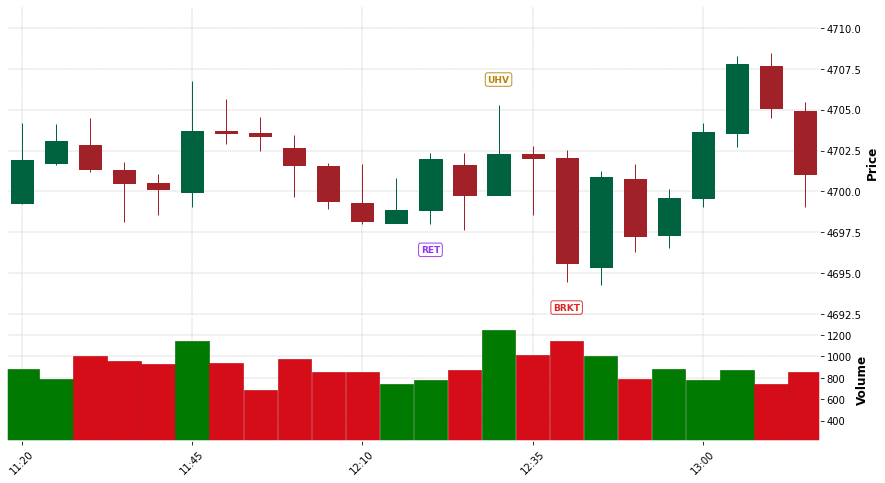
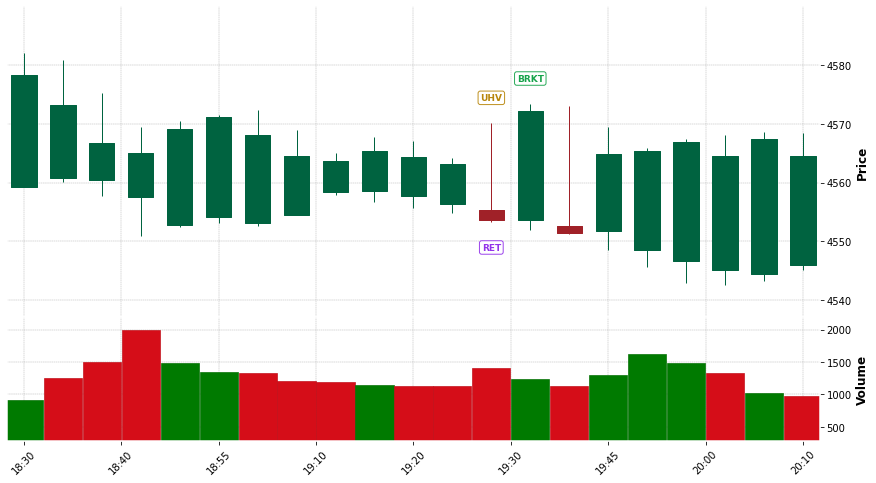
Regenerate dashboards: 81% WR config (min-break 0.5, UHV SL). M1 rejected (25% WR, loses)

diff --git a/monitor/setup_labels/signals.html b/monitor/setup_labels/signals.html
@@ -12,8 +12,8 @@ tr:hover{background:#111826}
 .summary{padding:12px 18px;color:#e6edf3;font-size:15px}
 </style></head><body>
 <header><h1>🎯 Pattern Matcher — Signals (validated rule stencils)</h1>
-<div class="sub">Generated 2026-07-26 02:35 · Feb-11 exit · demo/simulation</div></header>
-<div class="summary"><b>137</b> setups over last 33 days &nbsp;·&nbsp; <b class='take'>25 TAKE</b> / 112 SKIP &nbsp;·&nbsp; TAKE net <b class='pos'>$+807.5</b> @0.1 lot &nbsp;·&nbsp; WR 72%</div>
+<div class="sub">Generated 2026-07-26 03:06 · Feb-11 exit · demo/simulation</div></header>
+<div class="summary"><b>133</b> setups over last 33 days &nbsp;·&nbsp; <b class='take'>20 TAKE</b> / 113 SKIP &nbsp;·&nbsp; TAKE net <b class='pos'>$+856.2</b> @0.1 lot &nbsp;·&nbsp; WR 80%</div>
 <table><thead><tr><th>Time</th><th>Side</th><th>Rule</th><th>Decision</th><th>Pattern</th><th>Outcome @0.1 lot</th></tr></thead>
 <tbody><tr><td>2026-06-19 15:25</td><td class="sell">SELL</td><td>Rule 5</td><td class="skip">SKIP</td><td>Strong downtrend · weak-breakout</td><td></td></tr>
 <tr><td>2026-06-19 07:40</td><td class="sell">SELL</td><td>Rule 2</td><td class="take">TAKE</td><td>Strong downtrend · momentum-breakout</td><td><span class="pos">$+79.8</span></td></tr>
@@ -24,6 +24,7 @@ tr:hover{background:#111826}
 <tr><td>2026-06-18 23:55</td><td class="sell">SELL</td><td>Rule 4</td><td class="skip">SKIP</td><td>Downtrend · wick-breakout</td><td></td></tr>
 <tr><td>2026-06-18 21:30</td><td class="sell">SELL</td><td>Rule 5</td><td class="skip">SKIP</td><td>Strong downtrend · momentum-breakout</td><td></td></tr>
 <tr><td>2026-06-18 15:25</td><td class="sell">SELL</td><td>Rule 5</td><td class="skip">SKIP</td><td>Strong downtrend · momentum-breakout</td><td></td></tr>
+<tr><td>2026-06-18 13:55</td><td class="sell">SELL</td><td>Rule 5</td><td class="skip">SKIP</td><td>Strong downtrend · momentum-breakout</td><td></td></tr>
 <tr><td>2026-06-18 11:25</td><td class="sell">SELL</td><td>Rule 5</td><td class="skip">SKIP</td><td>Downtrend · weak-breakout</td><td></td></tr>
 <tr><td>2026-06-18 10:30</td><td class="sell">SELL</td><td>Rule 5</td><td class="skip">SKIP</td><td>Downtrend · momentum-breakout</td><td></td></tr>
 <tr><td>2026-06-18 04:40</td><td class="buy">BUY</td><td>Rule 5</td><td class="skip">SKIP</td><td>Strong uptrend · weak-breakout</td><td></td></tr>
@@ -31,12 +32,13 @@ tr:hover{background:#111826}
 <tr><td>2026-06-17 22:05</td><td class="sell">SELL</td><td>Rule 5</td><td class="skip">SKIP</td><td>Downtrend · weak-breakout</td><td></td></tr>
 <tr><td>2026-06-17 18:20</td><td class="buy">BUY</td><td>Rule 5</td><td class="skip">SKIP</td><td>Strong uptrend · momentum-breakout</td><td></td></tr>
 <tr><td>2026-06-17 08:55</td><td class="sell">SELL</td><td>Rule 2</td><td class="take">TAKE</td><td>Downtrend · momentum-breakout</td><td><span class="pos">$+9.1</span></td></tr>
+<tr><td>2026-06-16 14:55</td><td class="buy">BUY</td><td>—</td><td class="skip">SKIP</td><td>Uptrend · weak-breakout</td><td></td></tr>
 <tr><td>2026-06-16 12:50</td><td class="buy">BUY</td><td>Rule 5</td><td class="skip">SKIP</td><td>Strong uptrend · momentum-breakout</td><td></td></tr>
 <tr><td>2026-06-15 23:10</td><td class="sell">SELL</td><td>Rule 2</td><td class="take">TAKE</td><td>Strong downtrend · momentum-breakout</td><td><span class="pos">$+64.7</span></td></tr>
 <tr><td>2026-06-15 22:35</td><td class="sell">SELL</td><td>Rule 4</td><td class="skip">SKIP</td><td>Strong downtrend · wick-breakout</td><td></td></tr>
 <tr><td>2026-06-15 22:25</td><td class="sell">SELL</td><td>Rule 5</td><td class="skip">SKIP</td><td>Strong downtrend · momentum-breakout</td><td></td></tr>
 <tr><td>2026-06-15 22:00</td><td class="sell">SELL</td><td>Rule 5</td><td class="skip">SKIP</td><td>Strong downtrend · momentum-breakout</td><td></td></tr>
-<tr><td>2026-06-15 14:15</td><td class="buy">BUY</td><td>Rule 5</td><td class="skip">SKIP</td><td>Strong uptrend · momentum-breakout</td><td></td></tr>
+<tr><td>2026-06-15 14:25</td><td class="buy">BUY</td><td>Rule 5</td><td class="skip">SKIP</td><td>Strong uptrend · momentum-breakout</td><td></td></tr>
 <tr><td>2026-06-15 07:30</td><td class="buy">BUY</td><td>Rule 5</td><td class="skip">SKIP</td><td>Strong uptrend · weak-breakout</td><td></td></tr>
 <tr><td>2026-06-03 20:10</td><td class="sell">SELL</td><td>Rule 5</td><td class="skip">SKIP</td><td>Downtrend · momentum-breakout</td><td></td></tr>
 <tr><td>2026-06-03 19:35</td><td class="sell">SELL</td><td>Rule 5</td><td class="skip">SKIP</td><td>Downtrend · momentum-breakout</td><td></td></tr>
@@ -56,10 +58,10 @@ tr:hover{background:#111826}
 <tr><td>2026-06-01 09:25</td><td class="sell">SELL</td><td>Rule 5</td><td class="skip">SKIP</td><td>Strong downtrend · weak-breakout</td><td></td></tr>
 <tr><td>2026-06-01 06:20</td><td class="sell">SELL</td><td>Rule 5</td><td class="skip">SKIP</td><td>Downtrend · momentum-breakout</td><td></td></tr>
 <tr><td>2026-06-01 04:05</td><td class="sell">SELL</td><td>Rule 5</td><td class="skip">SKIP</td><td>Strong downtrend · momentum-breakout</td><td></td></tr>
-<tr><td>2026-06-01 03:40</td><td class="sell">SELL</td><td>Rule 2</td><td class="take">TAKE</td><td>Strong downtrend · momentum-breakout</td><td><span class="neg">$-101.5</span></td></tr>
+<tr><td>2026-06-01 03:40</td><td class="sell">SELL</td><td>Rule 2</td><td class="take">TAKE</td><td>Strong downtrend · momentum-breakout</td><td><span class="neg">$-109.8</span></td></tr>
 <tr><td>2026-06-01 02:30</td><td class="sell">SELL</td><td>Rule 4</td><td class="skip">SKIP</td><td>Strong downtrend · wick-breakout</td><td></td></tr>
 <tr><td>2026-05-31 23:50</td><td class="buy">BUY</td><td>Rule 5</td><td class="skip">SKIP</td><td>Strong uptrend · momentum-breakout</td><td></td></tr>
-<tr><td>2026-05-29 19:35</td><td class="buy">BUY</td><td>Rule 1</td><td class="take">TAKE</td><td>Uptrend · momentum-breakout</td><td><span class="neg">$-101.5</span></td></tr>
+<tr><td>2026-05-29 19:35</td><td class="buy">BUY</td><td>Rule 1</td><td class="take">TAKE</td><td>Uptrend · momentum-breakout</td><td><span class="neg">$-205.6</span></td></tr>
 <tr><td>2026-05-29 14:50</td><td class="buy">BUY</td><td>Rule 5</td><td class="skip">SKIP</td><td>Strong uptrend · momentum-breakout</td><td></td></tr>
 <tr><td>2026-05-29 13:35</td><td class="buy">BUY</td><td>—</td><td class="skip">SKIP</td><td>Uptrend · weak-breakout</td><td></td></tr>
 <tr><td>2026-05-29 12:40</td><td class="buy">BUY</td><td>Rule 5</td><td class="skip">SKIP</td><td>Uptrend · momentum-breakout</td><td></td></tr>
@@ -71,7 +73,6 @@ tr:hover{background:#111826}
 <tr><td>2026-05-28 04:25</td><td class="sell">SELL</td><td>Rule 5</td><td class="skip">SKIP</td><td>Strong downtrend · weak-breakout</td><td></td></tr>
 <tr><td>2026-05-28 03:15</td><td class="sell">SELL</td><td>Rule 5</td><td class="skip">SKIP</td><td>Strong downtrend · momentum-breakout</td><td></td></tr>
 <tr><td>2026-05-28 02:40</td><td class="sell">SELL</td><td>Rule 5</td><td class="skip">SKIP</td><td>Strong downtrend · momentum-breakout</td><td></td></tr>
-<tr><td>2026-05-27 22:35</td><td class="buy">BUY</td><td>Rule 1</td><td class="take">TAKE</td><td>Uptrend · momentum-breakout</td><td><span class="neg">$-101.5</span></td></tr>
 <tr><td>2026-05-27 17:30</td><td class="buy">BUY</td><td>Rule 4</td><td class="skip">SKIP</td><td>Uptrend · wick-breakout</td><td></td></tr>
 <tr><td>2026-05-27 12:55</td><td class="sell">SELL</td><td>Rule 2</td><td class="take">TAKE</td><td>Downtrend · momentum-breakout</td><td><span class="pos">$+51.3</span></td></tr>
 <tr><td>2026-05-27 11:25</td><td class="sell">SELL</td><td>Rule 5</td><td class="skip">SKIP</td><td>Strong downtrend · momentum-breakout</td><td></td></tr>
@@ -81,11 +82,11 @@ tr:hover{background:#111826}
 <tr><td>2026-05-26 20:35</td><td class="sell">SELL</td><td>Rule 4</td><td class="skip">SKIP</td><td>Downtrend · wick-breakout</td><td></td></tr>
 <tr><td>2026-05-25 03:45</td><td class="buy">BUY</td><td>Rule 5</td><td class="skip">SKIP</td><td>Strong uptrend · momentum-breakout</td><td></td></tr>
 <tr><td>2026-05-22 17:55</td><td class="sell">SELL</td><td>Rule 5</td><td class="skip">SKIP</td><td>Downtrend · momentum-breakout</td><td></td></tr>
-<tr><td>2026-05-22 06:10</td><td class="sell">SELL</td><td>Rule 5</td><td class="skip">SKIP</td><td>Strong downtrend · weak-breakout</td><td></td></tr>
 <tr><td>2026-05-22 05:15</td><td class="sell">SELL</td><td>Rule 5</td><td class="skip">SKIP</td><td>Strong downtrend · momentum-breakout</td><td></td></tr>
 <tr><td>2026-05-22 04:05</td><td class="sell">SELL</td><td>Rule 2</td><td class="take">TAKE</td><td>Downtrend · momentum-breakout</td><td><span class="pos">$+28.4</span></td></tr>
 <tr><td>2026-05-22 03:50</td><td class="sell">SELL</td><td>Rule 5</td><td class="skip">SKIP</td><td>Downtrend · momentum-breakout</td><td></td></tr>
 <tr><td>2026-05-21 17:15</td><td class="sell">SELL</td><td>Rule 5</td><td class="skip">SKIP</td><td>Downtrend · momentum-breakout</td><td></td></tr>
+<tr><td>2026-05-21 02:20</td><td class="sell">SELL</td><td>Rule 5</td><td class="skip">SKIP</td><td>Downtrend · momentum-breakout</td><td></td></tr>
 <tr><td>2026-05-20 21:30</td><td class="buy">BUY</td><td>Rule 5</td><td class="skip">SKIP</td><td>Strong uptrend · momentum-breakout</td><td></td></tr>
 <tr><td>2026-05-20 19:55</td><td class="buy">BUY</td><td>Rule 5</td><td class="skip">SKIP</td><td>Strong uptrend · weak-breakout</td><td></td></tr>
 <tr><td>2026-05-20 15:30</td><td class="buy">BUY</td><td>Rule 5</td><td class="skip">SKIP</td><td>Uptrend · momentum-breakout</td><td></td></tr>
@@ -96,16 +97,16 @@ tr:hover{background:#111826}
 <tr><td>2026-05-19 23:35</td><td class="sell">SELL</td><td>Rule 5</td><td class="skip">SKIP</td><td>Strong downtrend · weak-breakout</td><td></td></tr>
 <tr><td>2026-05-19 19:05</td><td class="sell">SELL</td><td>Rule 5</td><td class="skip">SKIP</td><td>Downtrend · momentum-breakout</td><td></td></tr>
 <tr><td>2026-05-14 02:55</td><td class="buy">BUY</td><td>Rule 5</td><td class="skip">SKIP</td><td>Uptrend · weak-breakout</td><td></td></tr>
-<tr><td>2026-05-14 01:50</td><td class="buy">BUY</td><td>Rule 1</td><td class="take">TAKE</td><td>Strong uptrend · momentum-breakout</td><td><span class="neg">$-101.5</span></td></tr>
 <tr><td>2026-05-13 23:30</td><td class="sell">SELL</td><td>Rule 5</td><td class="skip">SKIP</td><td>Downtrend · weak-breakout</td><td></td></tr>
 <tr><td>2026-05-13 08:25</td><td class="sell">SELL</td><td>Rule 5</td><td class="skip">SKIP</td><td>Strong downtrend · momentum-breakout</td><td></td></tr>
-<tr><td>2026-05-12 12:40</td><td class="sell">SELL</td><td>Rule 2</td><td class="take">TAKE</td><td>Downtrend · momentum-breakout</td><td><span class="neg">$-101.5</span></td></tr>
+<tr><td>2026-05-12 12:40</td><td class="sell">SELL</td><td>Rule 5</td><td class="skip">SKIP</td><td>Downtrend · momentum-breakout</td><td></td></tr>
 <tr><td>2026-05-12 12:10</td><td class="sell">SELL</td><td>—</td><td class="skip">SKIP</td><td>Downtrend · weak-breakout</td><td></td></tr>
 <tr><td>2026-05-12 11:10</td><td class="sell">SELL</td><td>Rule 5</td><td class="skip">SKIP</td><td>Strong downtrend · momentum-breakout</td><td></td></tr>
 <tr><td>2026-05-12 10:00</td><td class="sell">SELL</td><td>Rule 5</td><td class="skip">SKIP</td><td>Strong downtrend · momentum-breakout</td><td></td></tr>
 <tr><td>2026-05-12 07:45</td><td class="sell">SELL</td><td>Rule 2</td><td class="take">TAKE</td><td>Strong downtrend · momentum-breakout</td><td><span class="pos">$+43.1</span></td></tr>
-<tr><td>2026-05-12 06:15</td><td class="sell">SELL</td><td>Rule 5</td><td class="skip">SKIP</td><td>Strong downtrend · momentum-breakout</td><td></td></tr>
+<tr><td>2026-05-12 06:50</td><td class="sell">SELL</td><td>Rule 5</td><td class="skip">SKIP</td><td>Downtrend · weak-breakout</td><td></td></tr>
 <tr><td>2026-05-12 03:05</td><td class="buy">BUY</td><td>—</td><td class="skip">SKIP</td><td>Strong uptrend · weak-breakout</td><td></td></tr>
+<tr><td>2026-05-12 02:30</td><td class="buy">BUY</td><td>—</td><td class="skip">SKIP</td><td>Strong uptrend · weak-breakout</td><td></td></tr>
 <tr><td>2026-05-12 01:00</td><td class="buy">BUY</td><td>Rule 4</td><td class="skip">SKIP</td><td>Strong uptrend · wick-breakout</td><td></td></tr>
 <tr><td>2026-05-11 23:00</td><td class="buy">BUY</td><td>Rule 5</td><td class="skip">SKIP</td><td>Strong uptrend · momentum-breakout</td><td></td></tr>
 <tr><td>2026-05-11 22:45</td><td class="buy">BUY</td><td>Rule 5</td><td class="skip">SKIP</td><td>Strong uptrend · momentum-breakout</td><td></td></tr>
@@ -119,14 +120,11 @@ tr:hover{background:#111826}
 <tr><td>2026-05-07 01:10</td><td class="buy">BUY</td><td>Rule 5</td><td class="skip">SKIP</td><td>Uptrend · momentum-breakout</td><td></td></tr>
 <tr><td>2026-05-06 21:40</td><td class="sell">SELL</td><td>Rule 5</td><td class="skip">SKIP</td><td>Strong downtrend · momentum-breakout</td><td></td></tr>
 <tr><td>2026-05-06 13:30</td><td class="buy">BUY</td><td>Rule 1</td><td class="take">TAKE</td><td>Strong uptrend · momentum-breakout</td><td><span class="pos">$+92.9</span></td></tr>
-<tr><td>2026-05-06 12:25</td><td class="buy">BUY</td><td>Rule 4</td><td class="skip">SKIP</td><td>Strong uptrend · wick-breakout</td><td></td></tr>
 <tr><td>2026-05-06 11:50</td><td class="buy">BUY</td><td>—</td><td class="skip">SKIP</td><td>Strong uptrend · momentum-breakout</td><td></td></tr>
 <tr><td>2026-05-06 09:55</td><td class="buy">BUY</td><td>Rule 5</td><td class="skip">SKIP</td><td>Strong uptrend · momentum-breakout</td><td></td></tr>
 <tr><td>2026-05-06 08:50</td><td class="buy">BUY</td><td>Rule 1</td><td class="take">TAKE</td><td>Strong uptrend · momentum-breakout</td><td><span class="pos">$+82.3</span></td></tr>
 <tr><td>2026-05-06 07:45</td><td class="buy">BUY</td><td>Rule 4</td><td class="skip">SKIP</td><td>Strong uptrend · wick-breakout</td><td></td></tr>
-<tr><td>2026-05-06 04:20</td><td class="buy">BUY</td><td>Rule 1</td><td class="take">TAKE</td><td>Strong uptrend · momentum-breakout</td><td><span class="pos">$+84.5</span></td></tr>
-<tr><td>2026-05-06 03:55</td><td class="buy">BUY</td><td>Rule 5</td><td class="skip">SKIP</td><td>Strong uptrend · momentum-breakout</td><td></td></tr>
-<tr><td>2026-05-05 21:50</td><td class="sell">SELL</td><td>Rule 5</td><td class="skip">SKIP</td><td>Strong downtrend · momentum-breakout</td><td></td></tr>
+<tr><td>2026-05-05 22:40</td><td class="sell">SELL</td><td>Rule 5</td><td class="skip">SKIP</td><td>Strong downtrend · momentum-breakout</td><td></td></tr>
 <tr><td>2026-05-05 17:20</td><td class="buy">BUY</td><td>Rule 5</td><td class="skip">SKIP</td><td>Strong uptrend · momentum-breakout</td><td></td></tr>
 <tr><td>2026-05-05 16:00</td><td class="buy">BUY</td><td>Rule 5</td><td class="skip">SKIP</td><td>Uptrend · momentum-breakout</td><td></td></tr>
 <tr><td>2026-05-04 17:15</td><td class="buy">BUY</td><td>Rule 5</td><td class="skip">SKIP</td><td>Strong uptrend · momentum-breakout</td><td></td></tr>
@@ -143,12 +141,10 @@ tr:hover{background:#111826}
 <tr><td>2026-05-01 10:30</td><td class="sell">SELL</td><td>Rule 5</td><td class="skip">SKIP</td><td>Downtrend · momentum-breakout</td><td></td></tr>
 <tr><td>2026-05-01 09:25</td><td class="sell">SELL</td><td>Rule 5</td><td class="skip">SKIP</td><td>Downtrend · momentum-breakout</td><td></td></tr>
 <tr><td>2026-05-01 08:55</td><td class="sell">SELL</td><td>—</td><td class="skip">SKIP</td><td>Downtrend · weak-breakout</td><td></td></tr>
-<tr><td>2026-05-01 03:55</td><td class="sell">SELL</td><td>Rule 2</td><td class="take">TAKE</td><td>Downtrend · momentum-breakout</td><td><span class="neg">$-101.5</span></td></tr>
+<tr><td>2026-05-01 03:55</td><td class="sell">SELL</td><td>Rule 2</td><td class="take">TAKE</td><td>Downtrend · momentum-breakout</td><td><span class="neg">$-53.9</span></td></tr>
 <tr><td>2026-04-30 22:40</td><td class="buy">BUY</td><td>Rule 5</td><td class="skip">SKIP</td><td>Uptrend · weak-breakout</td><td></td></tr>
 <tr><td>2026-04-30 18:45</td><td class="sell">SELL</td><td>Rule 4</td><td class="skip">SKIP</td><td>Downtrend · wick-breakout</td><td></td></tr>
 <tr><td>2026-04-30 17:35</td><td class="sell">SELL</td><td>Rule 5</td><td class="skip">SKIP</td><td>Downtrend · momentum-breakout</td><td></td></tr>
 <tr><td>2026-04-30 13:20</td><td class="buy">BUY</td><td>Rule 1</td><td class="take">TAKE</td><td>Strong uptrend · momentum-breakout</td><td><span class="pos">$+84.2</span></td></tr>
 <tr><td>2026-04-30 04:45</td><td class="buy">BUY</td><td>Rule 5</td><td class="skip">SKIP</td><td>Strong uptrend · weak-breakout</td><td></td></tr>
-<tr><td>2026-04-30 04:25</td><td class="buy">BUY</td><td>Rule 1</td><td class="take">TAKE</td><td>Strong uptrend · momentum-breakout</td><td><span class="neg">$-101.5</span></td></tr>
-<tr><td>2026-04-30 02:55</td><td class="buy">BUY</td><td>Rule 5</td><td class="skip">SKIP</td><td>Strong uptrend · momentum-breakout</td><td></td></tr>
-<tr><td>2026-04-30 02:45</td><td class="buy">BUY</td><td>Rule 1</td><td class="take">TAKE</td><td>Strong uptrend · momentum-breakout</td><td><span class="pos">$+63.4</span></td></tr></tbody></table></body></html>
+<tr><td>2026-04-30 04:25</td><td class="buy">BUY</td><td>Rule 1</td><td class="take">TAKE</td><td>Strong uptrend · momentum-breakout</td><td><span class="neg">$-144.6</span></td></tr></tbody></table></body></html>

diff --git a/monitor/setup_labels/losers.html b/monitor/setup_labels/losers.html
@@ -13,9 +13,9 @@ textarea{flex:1;min-height:60px;background:#0b0f14;color:#e6edf3;border:1px soli
 button{background:#2563eb;color:#fff;border:0;border-radius:8px;padding:10px 18px;cursor:pointer}
 .saved{color:#16a34a;font-size:13px;align-self:center}
 </style></head><body><header><h1>🔍 Losing TAKE setups — what went wrong?</h1>
-<div class="sub">7 losing TAKE setups (0.1 lot) · these are the 54% that lost &nbsp; Har loser pe likho: kya ghalat tha / tum yeh kyun na lete. Isse main rules tighten karungi.</div></header>
+<div class="sub">4 losing TAKE setups (0.1 lot) · these are the 54% that lost &nbsp; Har loser pe likho: kya ghalat tha / tum yeh kyun na lete. Isse main rules tighten karungi.</div></header>
 <div id="app"></div><script>
-const S=[{"id": "loser_001", "png": "loser_001.png?v=1785015322", "title": "#1 Strong uptrend \u00b7 momentum-breakout", "rule": "Rule 1 Uptrend Momentum Breakout", "cap": "BUY \u2192 $-101.5 loss (hit stop) \u00b7 2026-04-30 04:25", "notes": ["trend: strong uptrend \u2014 clearly stepping up, much bigger than the pullback", "retracement start: valid \u2014 the candle's body broke past the previous candle (retracement started)", "UHV candle: barely the highest-volume candle \u2014 marginal", "breakout: strong momentum candle, small wick \u2014 and volume lower than UHV (good)"]}, {"id": "loser_002", "png": "loser_002.png?v=1785015322", "title": "#2 Downtrend \u00b7 momentum-breakout", "rule": "Rule 2 Downtrend Momentum Breakout", "cap": "SELL \u2192 $-101.5 loss (hit stop) \u00b7 2026-05-01 03:55", "notes": ["trend: mild downtrend \u2014 going down but not strongly", "retracement start: valid \u2014 the candle's body broke past the previous candle (retracement started)", "UHV candle: barely the highest-volume candle \u2014 marginal", "breakout: strong momentum candle, small wick \u2014 and volume lower than UHV (good)"]}, {"id": "loser_003", "png": "loser_003.png?v=1785015322", "title": "#3 Downtrend \u00b7 momentum-breakout", "rule": "Rule 2 Downtrend Momentum Breakout", "cap": "SELL \u2192 $-101.5 loss (hit stop) \u00b7 2026-05-12 12:40", "notes": ["trend: mild downtrend \u2014 going down but not strongly", "retracement start: valid \u2014 the candle's body broke past the previous candle (retracement started)", "UHV candle: clearly the highest-volume candle in the pullback", "breakout: strong momentum candle, small wick \u2014 and volume lower than UHV (good)"]}, {"id": "loser_004", "png": "loser_004.png?v=1785015322", "title": "#4 Strong uptrend \u00b7 momentum-breakout", "rule": "Rule 1 Uptrend Momentum Breakout", "cap": "BUY \u2192 $-101.5 loss (hit stop) \u00b7 2026-05-14 01:50", "notes": ["trend: strong uptrend \u2014 clearly stepping up, much bigger than the pullback", "retracement start: valid \u2014 the candle's body broke past the previous candle (retracement started)", "UHV candle: clearly the highest-volume candle in the pullback", "breakout: strong momentum candle, small wick \u2014 and volume lower than UHV (good)"]}, {"id": "loser_005", "png": "loser_005.png?v=1785015322", "title": "#5 Uptrend \u00b7 momentum-breakout", "rule": "Rule 1 Uptrend Momentum Breakout", "cap": "BUY \u2192 $-101.5 loss (hit stop) \u00b7 2026-05-27 22:35", "notes": ["trend: mild uptrend \u2014 going up but not strongly", "retracement start: valid \u2014 the candle's body broke past the previous candle (retracement started)", "UHV candle: clearly the highest-volume candle in the pullback", "breakout: strong momentum candle, small wick \u2014 and volume lower than UHV (good)"]}, {"id": "loser_006", "png": "loser_006.png?v=1785015322", "title": "#6 Uptrend \u00b7 momentum-breakout", "rule": "Rule 1 Uptrend Momentum Breakout", "cap": "BUY \u2192 $-101.5 loss (hit stop) \u00b7 2026-05-29 19:35", "notes": ["trend: mild uptrend \u2014 going up but not strongly", "retracement start: valid \u2014 the candle's body broke past the previous candle (retracement started)", "UHV candle: clearly the highest-volume candle in the pullback", "breakout: strong momentum candle, small wick \u2014 and volume lower than UHV (good)"]}, {"id": "loser_007", "png": "loser_007.png?v=1785015322", "title": "#7 Strong downtrend \u00b7 momentum-breakout", "rule": "Rule 2 Downtrend Momentum Breakout", "cap": "SELL \u2192 $-101.5 loss (hit stop) \u00b7 2026-06-01 03:40", "notes": ["trend: strong downtrend \u2014 clearly stepping down, much bigger than the pullback", "retracement start: valid \u2014 the candle's body broke past the previous candle (retracement started)", "UHV candle: clearly the highest-volume candle in the pullback", "breakout: strong momentum candle, small wick \u2014 and volume lower than UHV (good)"]}];let L={};
+const S=[{"id": "loser_001", "png": "loser_001.png?v=1785016963", "title": "#1 Strong uptrend \u00b7 momentum-breakout", "rule": "Rule 1 Uptrend Momentum Breakout", "cap": "BUY \u2192 $-144.6 loss (hit stop) \u00b7 2026-04-30 04:25", "notes": ["trend: strong uptrend \u2014 clearly stepping up, much bigger than the pullback", "retracement start: valid \u2014 the candle's body broke past the previous candle (retracement started)", "UHV candle: barely the highest-volume candle \u2014 marginal", "breakout: strong momentum candle, small wick \u2014 and volume lower than UHV (good)"]}, {"id": "loser_002", "png": "loser_002.png?v=1785016963", "title": "#2 Downtrend \u00b7 momentum-breakout", "rule": "Rule 2 Downtrend Momentum Breakout", "cap": "SELL \u2192 $-53.9 loss (hit stop) \u00b7 2026-05-01 03:55", "notes": ["trend: mild downtrend \u2014 going down but not strongly", "retracement start: valid \u2014 the candle's body broke past the previous candle (retracement started)", "UHV candle: barely the highest-volume candle \u2014 marginal", "breakout: strong momentum candle, small wick \u2014 and volume lower than UHV (good)"]}, {"id": "loser_003", "png": "loser_003.png?v=1785016963", "title": "#3 Uptrend \u00b7 momentum-breakout", "rule": "Rule 1 Uptrend Momentum Breakout", "cap": "BUY \u2192 $-205.6 loss (hit stop) \u00b7 2026-05-29 19:35", "notes": ["trend: mild uptrend \u2014 going up but not strongly", "retracement start: valid \u2014 the candle's body broke past the previous candle (retracement started)", "UHV candle: clearly the highest-volume candle in the pullback", "breakout: strong momentum candle, small wick \u2014 and volume lower than UHV (good)"]}, {"id": "loser_004", "png": "loser_004.png?v=1785016963", "title": "#4 Strong downtrend \u00b7 momentum-breakout", "rule": "Rule 2 Downtrend Momentum Breakout", "cap": "SELL \u2192 $-109.8 loss (hit stop) \u00b7 2026-06-01 03:40", "notes": ["trend: strong downtrend \u2014 clearly stepping down, much bigger than the pullback", "retracement start: valid \u2014 the candle's body broke past the previous candle (retracement started)", "UHV candle: clearly the highest-volume candle in the pullback", "breakout: strong momentum candle, small wick \u2014 and volume lower than UHV (good)"]}];let L={};
 async function ld(){try{L=await(await fetch('/api/labels')).json()}catch(e){}rn()}
 async function sv(id){const v=document.getElementById('t_'+id).value;const r=await fetch('/api/labels',{method:'POST',headers:{'Content-Type':'application/json'},body:JSON.stringify({idx:id,who:'zee',label:v})});const e=document.getElementById('s_'+id);e.textContent=r.ok?'saved ✓':'err';setTimeout(()=>e.textContent='',2000)}
 function rn(){const a=document.getElementById('app');a.innerHTML='';S.forEach(s=>{const p=(L[s.id]&&L[s.id].zee)||'';const notes=(s.notes||[]).map(n=>'• '+n).join('<br>');const d=document.createElement('div');d.className='card';d.innerHTML=`<div class="title">🧩 ${s.title} &nbsp;·&nbsp; ${s.rule}</div><div class="cap">${s.cap}</div><img src="${s.png}" loading="lazy"><div class="notes">${notes}</div><div class="row"><textarea id="t_${s.id}" placeholder="Why did this lose? / what would you do?">${p.replace(/</g,'&lt;')}</textarea><button onclick="sv('${s.id}')">Save</button><span class="saved" id="s_${s.id}"></span></div>`;a.appendChild(d)})}
